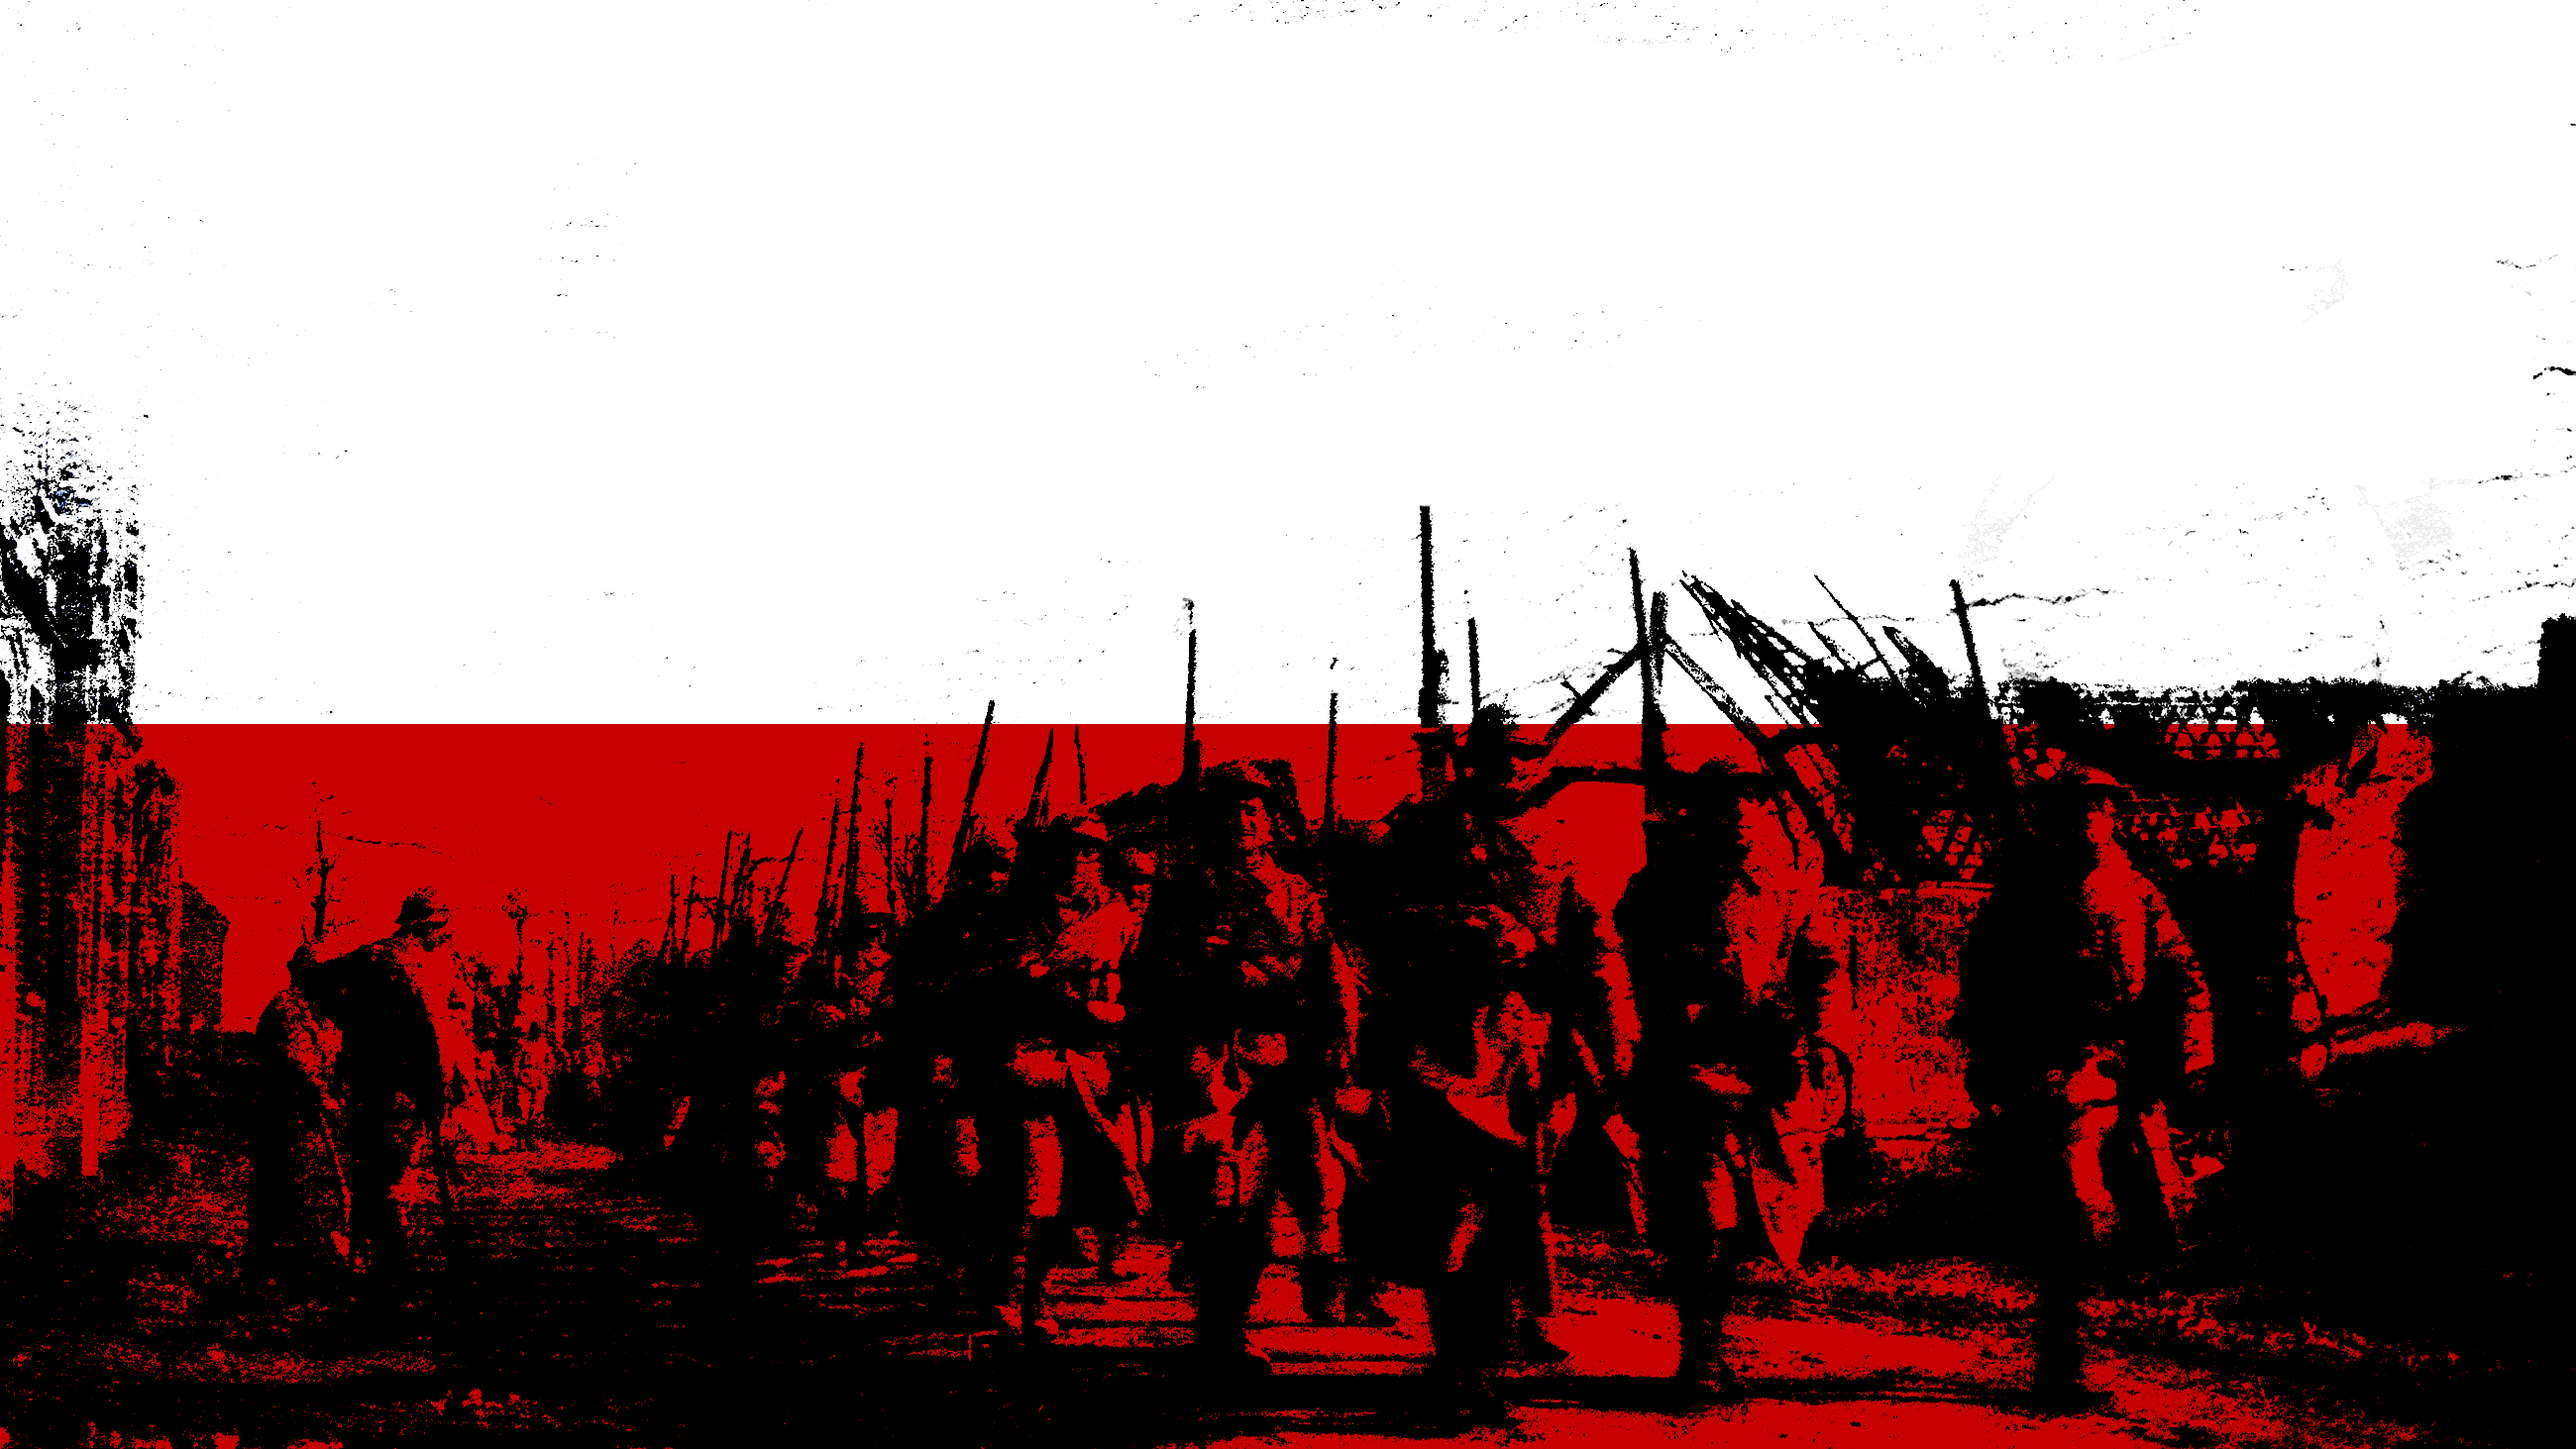
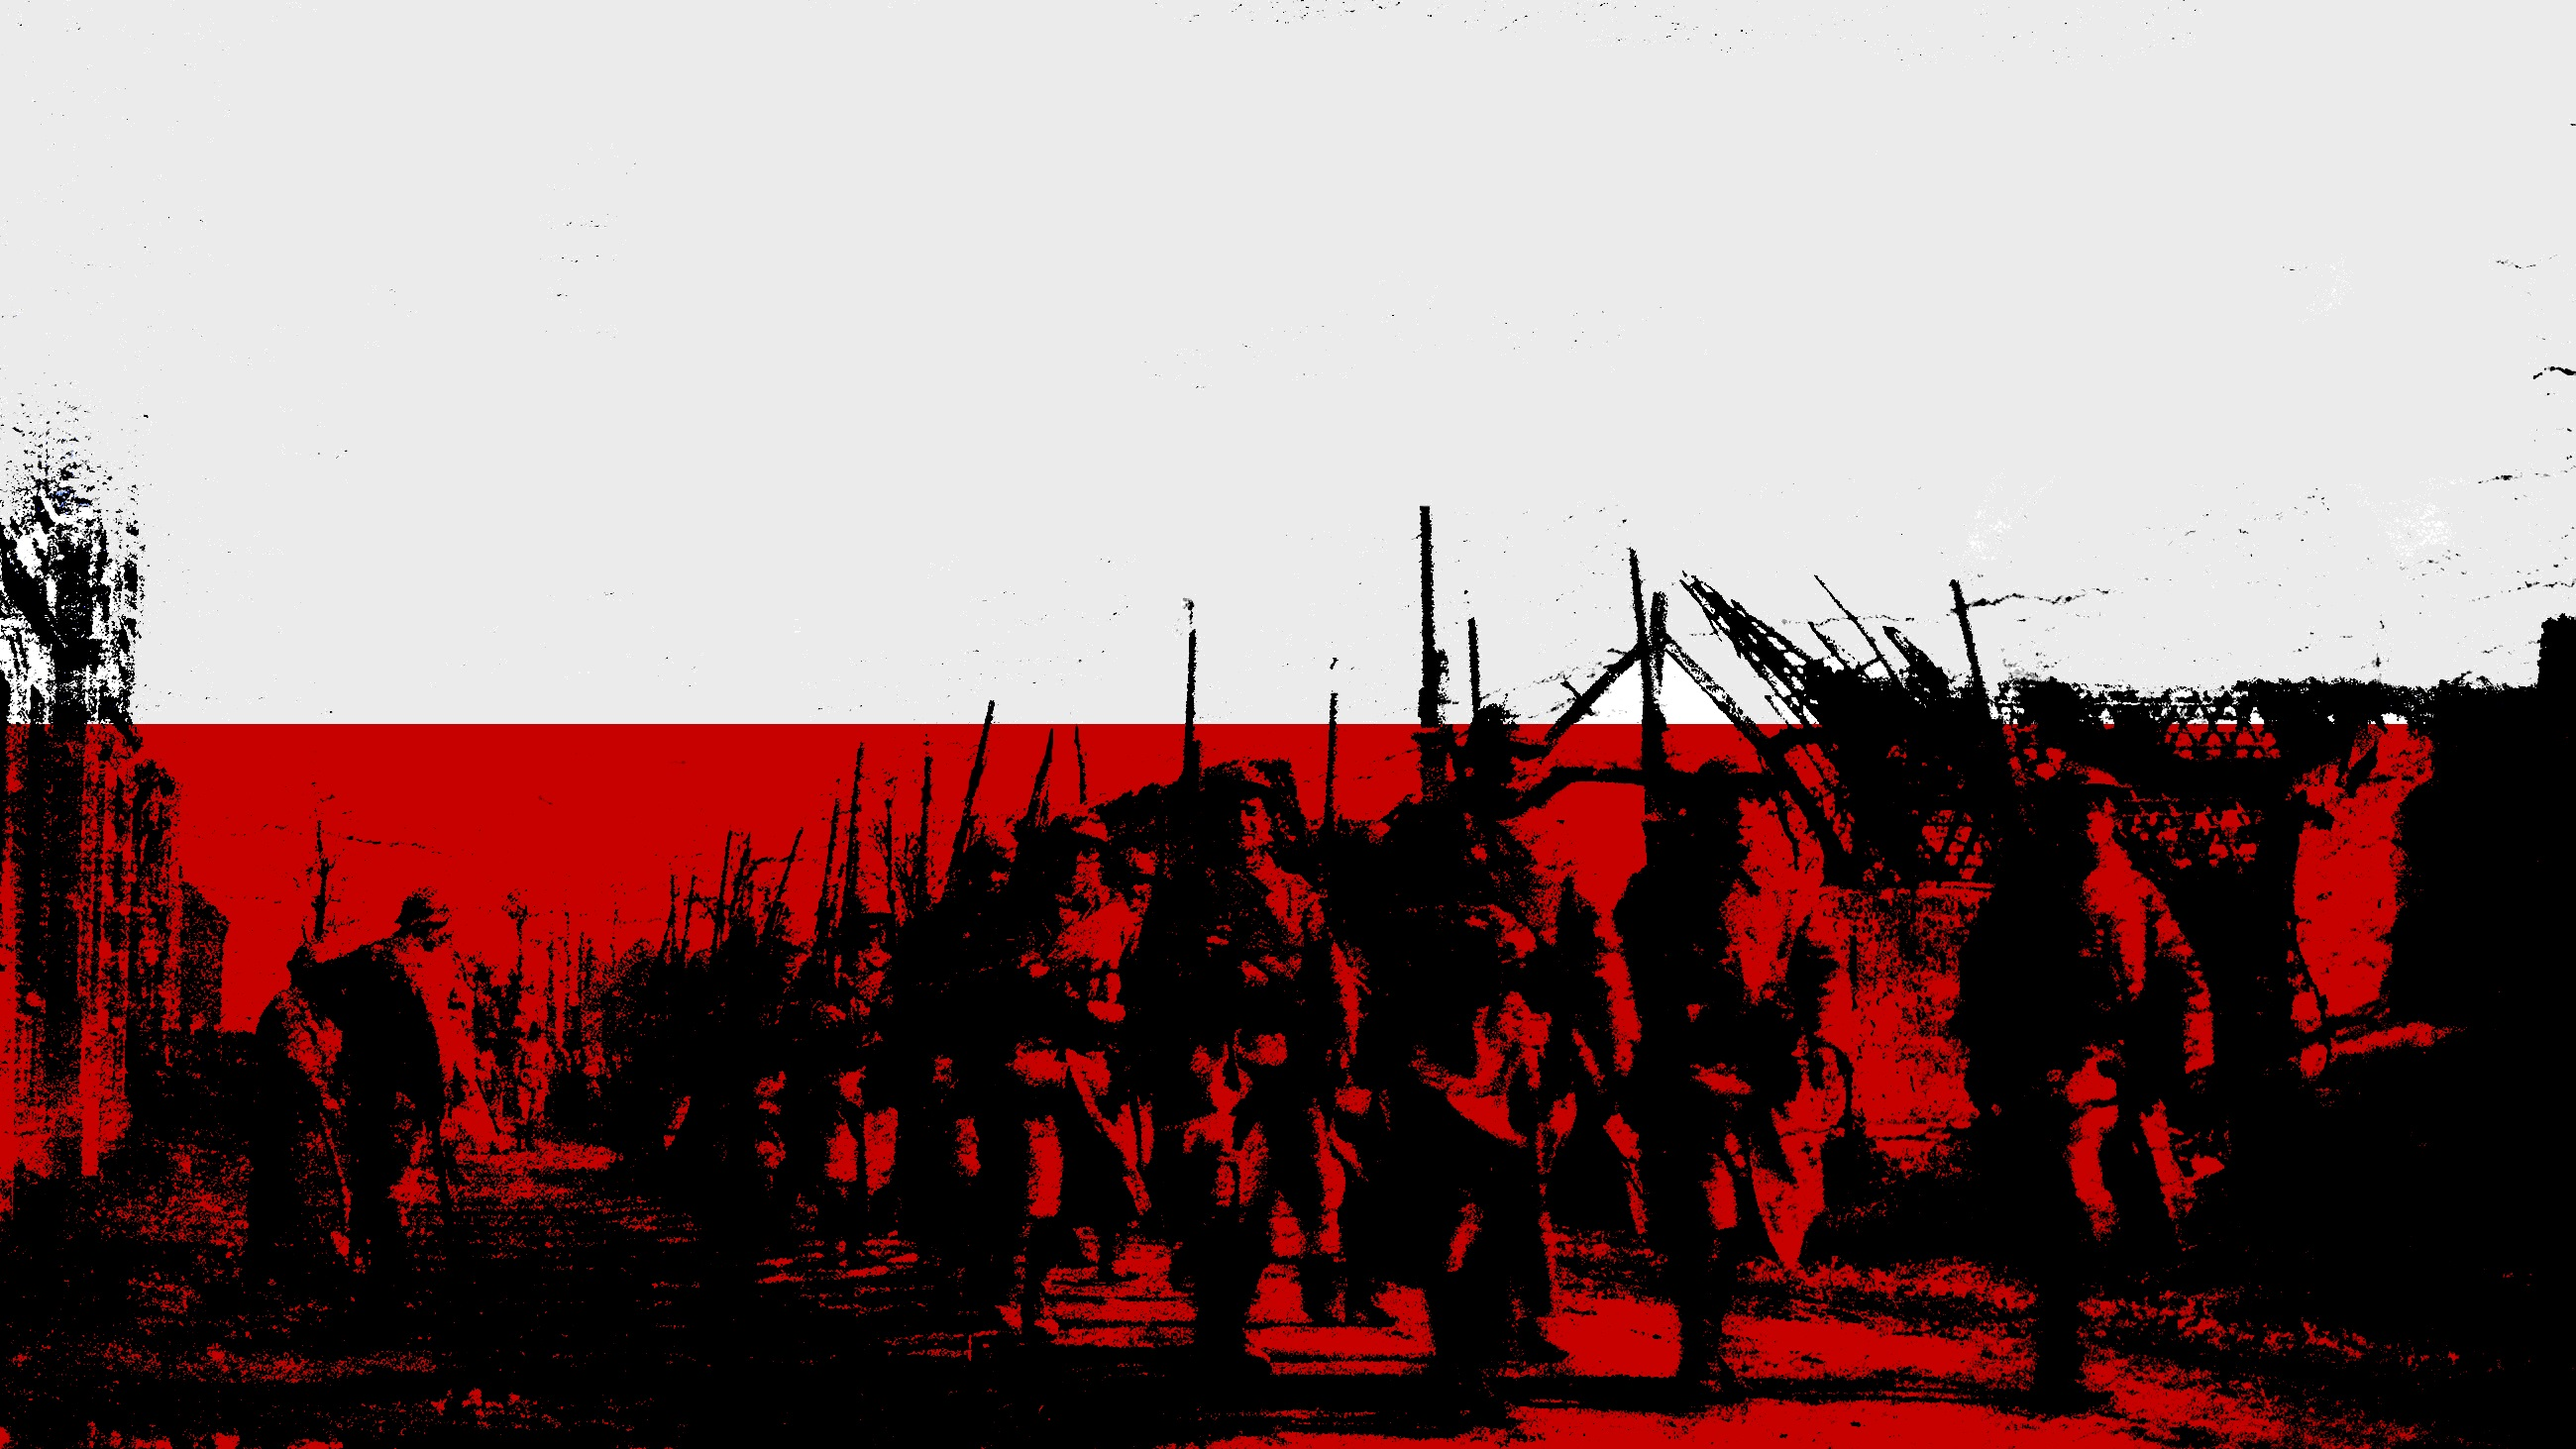
stylized whole page

diff --git a/public/css/base.css b/public/css/base.css
@@ -4,11 +4,20 @@
  * Licensed under MIT (https://github.com/BlackrockDigital/startbootstrap-agency/blob/master/LICENSE)
  */
 
+html{
+  height: 100vh;
+}
+
 
 
 body {
+  height: 100vh;
   overflow-x: hidden;
   font-family: 'Roboto Slab', -apple-system, BlinkMacSystemFont, 'Segoe UI', Roboto, 'Helvetica Neue', Arial, sans-serif, 'Apple Color Emoji', 'Segoe UI Emoji', 'Segoe UI Symbol', 'Noto Color Emoji';
+}
+
+#page-top{
+background: rgba(81, 55, 59,1) !important;
 }
 
 p {
@@ -58,6 +67,11 @@ section h3.section-subheading {
   }
 }
 
+@media (min-width: 1200px){
+  .container {
+    max-width: 1280px !important;
+  }
+}
 .btn {
   font-family: 'Montserrat', -apple-system, BlinkMacSystemFont, 'Segoe UI', Roboto, 'Helvetica Neue', Arial, sans-serif, 'Apple Color Emoji', 'Segoe UI Emoji', 'Segoe UI Symbol', 'Noto Color Emoji';
   font-weight: 700;
@@ -102,36 +116,39 @@ img::-moz-selection {
 }
 
 #mainNav .navbar-toggler {
+
   font-size: 12px;
   right: 0;
   padding: 13px;
   text-transform: uppercase;
-  color: white;
+  color: black;
   border: 0;
-  background-color: #fed136;
+  background-color: #f6f6f6;
   font-family: 'Montserrat', -apple-system, BlinkMacSystemFont, 'Segoe UI', Roboto, 'Helvetica Neue', Arial, sans-serif, 'Apple Color Emoji', 'Segoe UI Emoji', 'Segoe UI Symbol', 'Noto Color Emoji';
 }
 
 #mainNav .navbar-brand {
-  color: #fed136;
+  color: #f6f6f6;
   font-family: 'Kaushan Script', -apple-system, BlinkMacSystemFont, 'Segoe UI', Roboto, 'Helvetica Neue', Arial, sans-serif, 'Apple Color Emoji', 'Segoe UI Emoji', 'Segoe UI Symbol', 'Noto Color Emoji';
 }
 
 #mainNav .navbar-brand.active, #mainNav .navbar-brand:active, #mainNav .navbar-brand:focus, #mainNav .navbar-brand:hover {
-  color: #fec503;
+  color: #f6f6f6;
 }
 
 #mainNav .navbar-nav .nav-item .nav-link {
+  border-bottom: 1px solid;
+  border-color: rgb(214, 61, 65,0.3);
   font-size: 90%;
   font-weight: 400;
   padding: 0.75em 0;
   letter-spacing: 1px;
-  color: white;
+  color: black;
   font-family: 'Montserrat', -apple-system, BlinkMacSystemFont, 'Segoe UI', Roboto, 'Helvetica Neue', Arial, sans-serif, 'Apple Color Emoji', 'Segoe UI Emoji', 'Segoe UI Symbol', 'Noto Color Emoji';
 }
 
-#mainNav .navbar-nav .nav-item .nav-link.active, #mainNav .navbar-nav .nav-item .nav-link:hover {
-  color: #fed136;
+#mainNav .navbar-nav .nav-item , #mainNav .navbar-nav .nav-item .nav-link:hover {
+  color: #C7090F;
 }
 
 @media (min-width: 992px) {
@@ -153,7 +170,7 @@ img::-moz-selection {
   #mainNav.navbar-shrink {
     padding-top: 0;
     padding-bottom: 0;
-    background-color: #212529;
+    background-color: #f6f6f6;
   }
   #mainNav.navbar-shrink .navbar-brand {
     font-size: 1.25em;
@@ -162,18 +179,27 @@ img::-moz-selection {
 }
 
 header.masthead {
+  height: 100%;
   text-align: center;
   color: white;
-  background-image: url("../img/header-bg.jpg");
+  background-image: url("../img/header-bg3.jpg");
   background-repeat: no-repeat;
   background-attachment: scroll;
   background-position: center center;
   background-size: cover;
 }
 
+#headerContainer{
+  height: 100vh;
+}
+
 header.masthead .intro-text {
   padding-top: 150px;
   padding-bottom: 100px;
+  height: 100%;
+  display: flex;
+  align-items: center;
+  justify-content: end;
 }
 
 header.masthead .intro-text .intro-lead-in {
@@ -588,6 +614,8 @@ header.masthead .intro-text .intro-heading {
   margin-top: 0;
 }
 
+
+
 section#contact {
   background-color: #212529;
   background-image: url("../img/map-image.png");
@@ -647,8 +675,12 @@ section#contact :-ms-input-placeholder {
 }
 
 footer {
+  position: fixed;
+  bottom: 0px;
+  width: 100%;
   padding: 25px 0;
   text-align: center;
+  background: black;
 }
 
 footer span.copyright {
@@ -689,11 +721,11 @@ ul.social-buttons li a:active, ul.social-buttons li a:focus, ul.social-buttons l
 }
 
 .navbar-black {
-  background-color: #212529;
+  background-color: #f6f6f6;
 }
 
 .section-grey {
-  background-color: #ffeded;
+  background-color: rgba(238, 238, 238, 1);
 }
 
 .fixed-flash {

diff --git a/public/css/news/addNews.css b/public/css/news/addNews.css
@@ -1,0 +1,28 @@
+div#AddForm input {
+    width: 480px;
+    max-width: 95%;
+    display: block;
+    margin: 0 auto;
+    padding: 10px;
+}
+
+div#AddForm textarea {
+    width: 480px;
+    max-width: 95%;
+    display: block;
+    margin: 0 auto;
+    padding: 10px;
+}
+
+.custom-file{
+    width: 480px !important;
+    max-width: 95%!important;
+    display: block!important;
+    margin: 0 auto!important;
+    padding: 10px!important;
+}
+
+div#AddForm .btn{
+    background: rgba(214, 61, 65,0.3);
+    color: #333;
+}
